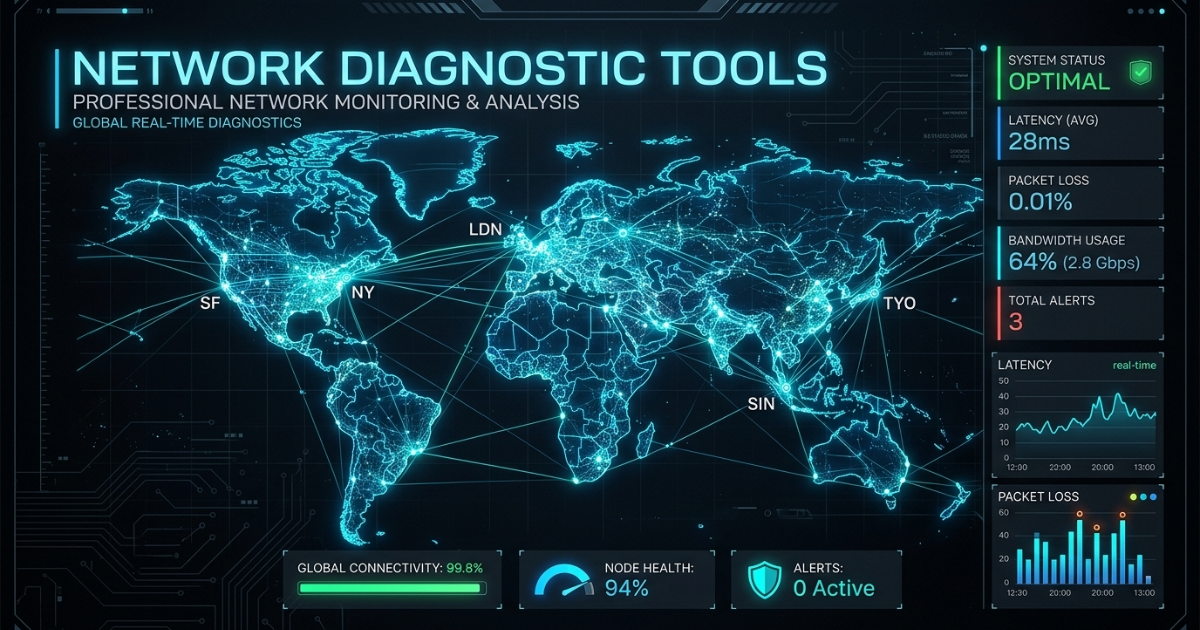
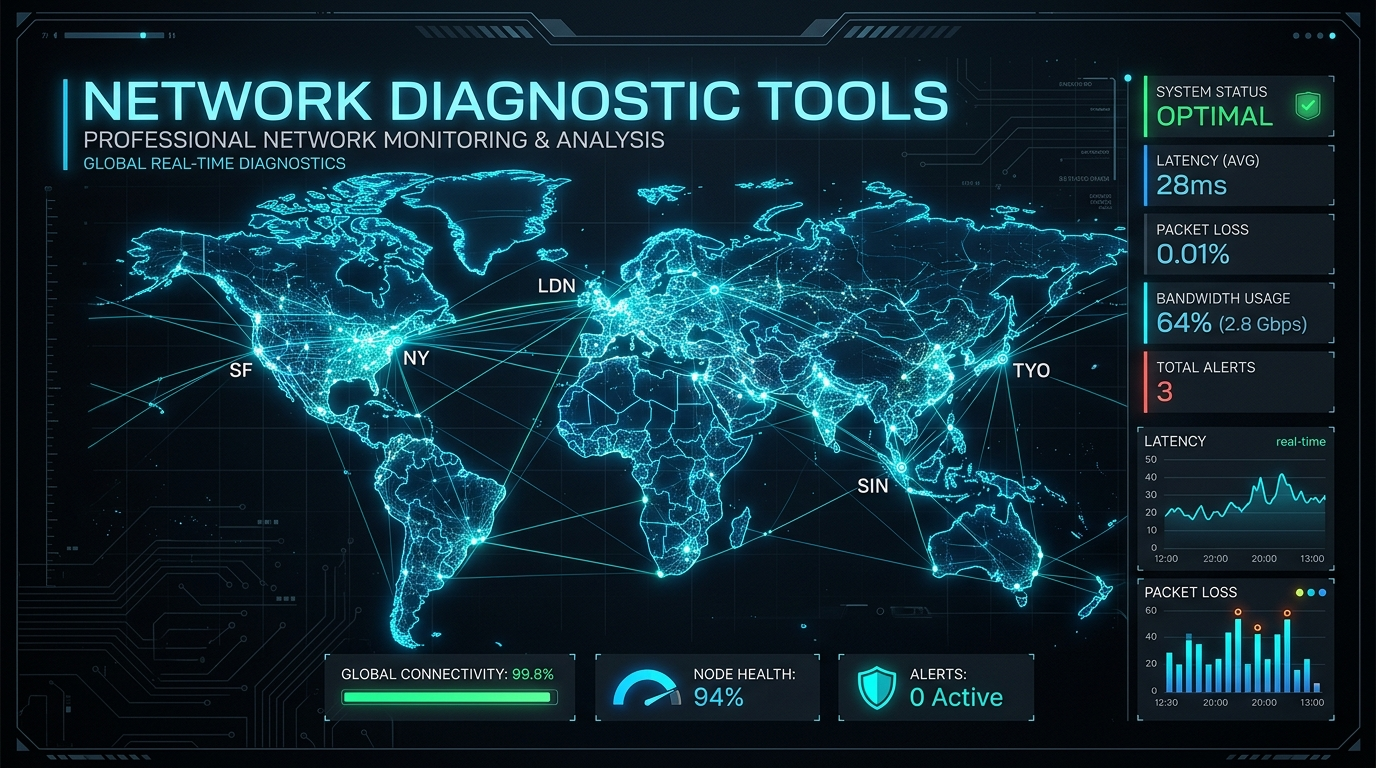
Add files via upload

diff --git a/server.ts b/server.ts
@@ -1,5 +1,6 @@
 import express, { Request, Response } from 'express';
 import { createServer as createViteServer } from 'vite';
+import cors from 'cors';
 import tls from 'tls';
 import net from 'net';
 import dns from 'dns';
@@ -12,18 +13,9 @@ const __dirname = path.dirname(__filename);
 const app = express();
 const port = process.env.PORT ? parseInt(process.env.PORT, 10) : 3000;
 
+app.use(cors({ origin: '*', credentials: true }));
 app.use(express.json());
 
-// CORS middleware for external frontend deployments (e.g. Cloudflare Pages, Vercel)
-app.use((req, res, next) => {
-  res.header('Access-Control-Allow-Origin', '*');
-  res.header('Access-Control-Allow-Methods', 'GET, POST, PUT, DELETE, OPTIONS');
-  res.header('Access-Control-Allow-Headers', 'Origin, X-Requested-With, Content-Type, Accept, Authorization');
-  if (req.method === 'OPTIONS') {
-    return res.sendStatus(200);
-  }
-  next();
-});
 
 // Helper para limpiar nombres de host / dominios
 function cleanHost(input: string): string {
